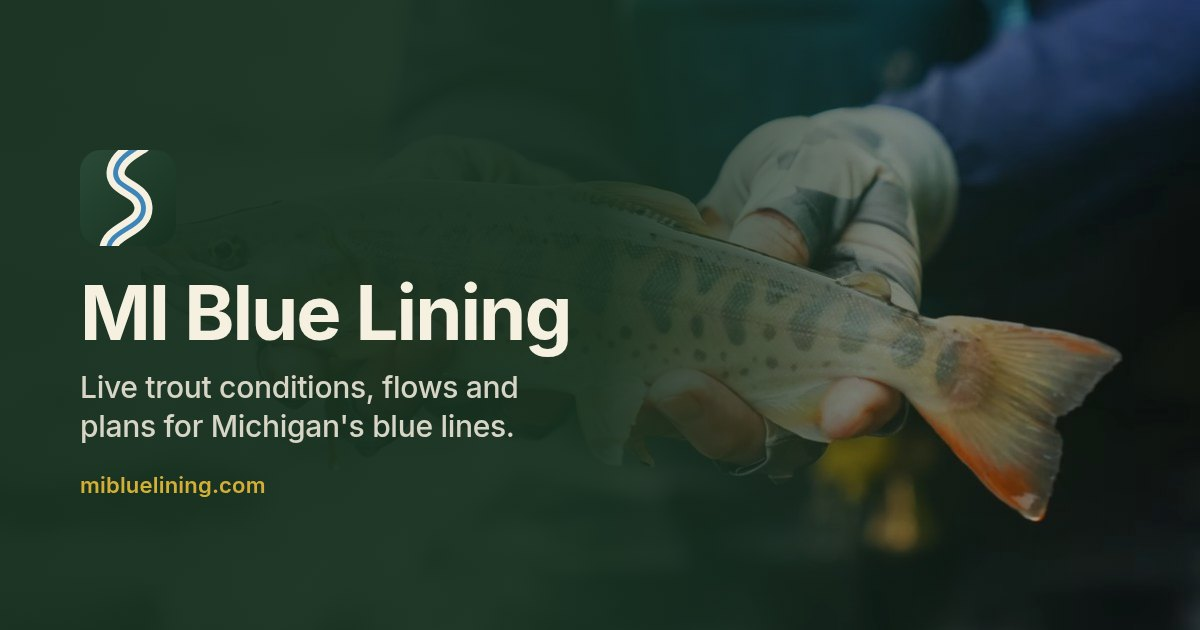
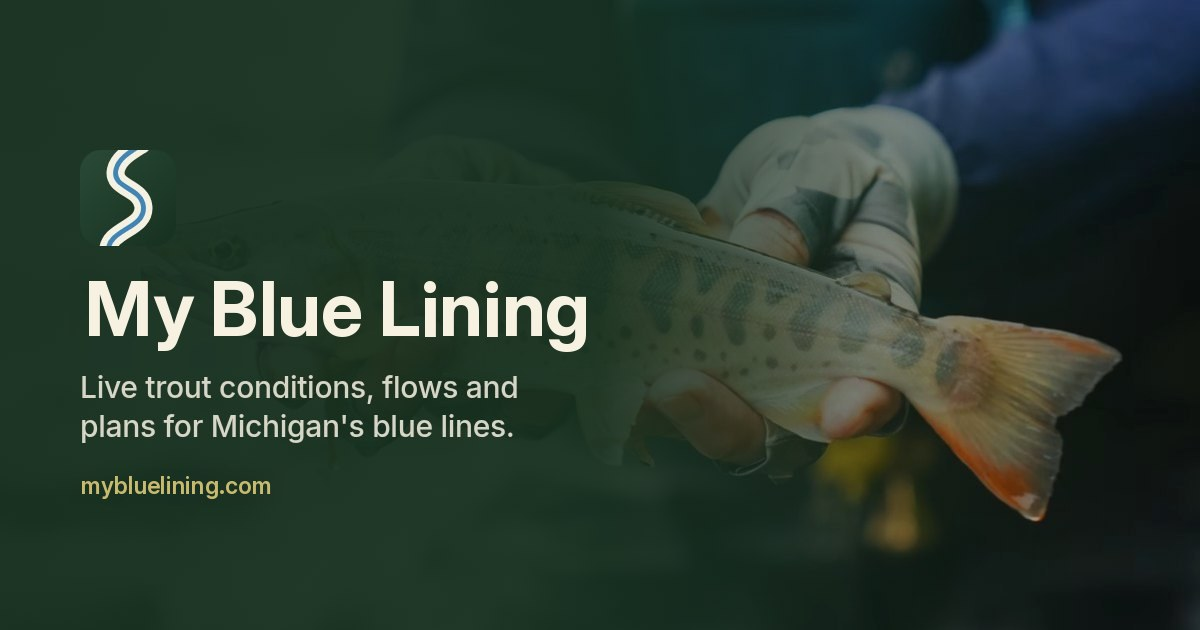
Share card: My Blue Lining / mybluelining.com

Changed region(s): [[0.0617, 0.4222, 0.4933, 0.573], [0.0617, 0.754, 0.2467, 0.8143]]

diff --git a/index.html b/index.html
@@ -2,8 +2,8 @@
 <title>My Blue Lining · Michigan trout streams, live</title>
 <meta name="description" content="My Blue Lining: live trout conditions, river flows, weather, hatch and run calendars, and a fishing log for the Clinton River, Paint Creek and Michigan trout streams.">
 <link rel="canonical" href="https://www.mybluelining.com/">
-<meta property="og:site_name" content="My Blue Lining"><meta property="og:title" content="My Blue Lining"><meta property="og:description" content="Live trout conditions, flows and fishing plans for Michigan's blue lines."><meta property="og:url" content="https://www.mybluelining.com/"><meta property="og:image" content="https://www.mybluelining.com/og-card.jpg?v=3"><meta property="og:image:width" content="1200"><meta property="og:image:height" content="630"><meta property="og:image:alt" content="My Blue Lining"><meta property="og:type" content="website">
-<meta name="twitter:card" content="summary_large_image"><meta name="twitter:title" content="My Blue Lining"><meta name="twitter:description" content="Live trout conditions, flows and fishing plans for Michigan's blue lines."><meta name="twitter:image" content="https://www.mybluelining.com/og-card.jpg?v=3">
+<meta property="og:site_name" content="My Blue Lining"><meta property="og:title" content="My Blue Lining"><meta property="og:description" content="Live trout conditions, flows and fishing plans for Michigan's blue lines."><meta property="og:url" content="https://www.mybluelining.com/"><meta property="og:image" content="https://www.mybluelining.com/og-card.jpg?v=4"><meta property="og:image:width" content="1200"><meta property="og:image:height" content="630"><meta property="og:image:alt" content="My Blue Lining"><meta property="og:type" content="website">
+<meta name="twitter:card" content="summary_large_image"><meta name="twitter:title" content="My Blue Lining"><meta name="twitter:description" content="Live trout conditions, flows and fishing plans for Michigan's blue lines."><meta name="twitter:image" content="https://www.mybluelining.com/og-card.jpg?v=4">
 <meta name="theme-color" content="#f4f0e6"><meta name="application-name" content="My Blue Lining"><meta name="apple-mobile-web-app-title" content="Blue Lining"><meta name="apple-mobile-web-app-capable" content="yes"><meta name="mobile-web-app-capable" content="yes"><meta name="apple-mobile-web-app-status-bar-style" content="default"><meta name="format-detection" content="telephone=no">
 <link rel="icon" href="icon.svg?v=3" type="image/svg+xml"><link rel="icon" href="favicon-32.png?v=3" sizes="32x32" type="image/png"><link rel="apple-touch-icon" href="apple-touch-icon.png?v=3" sizes="180x180"><link rel="manifest" href="manifest.webmanifest?v=3">
 <link rel="preconnect" href="https://fonts.googleapis.com"><link rel="preconnect" href="https://fonts.gstatic.com" crossorigin><link rel="stylesheet" href="https://fonts.googleapis.com/css2?family=Inter:wght@400;500;600;700&display=swap"><link rel="stylesheet" href="https://unpkg.com/leaflet@1.9.4/dist/leaflet.css"><script src="https://unpkg.com/leaflet@1.9.4/dist/leaflet.js"></script>
